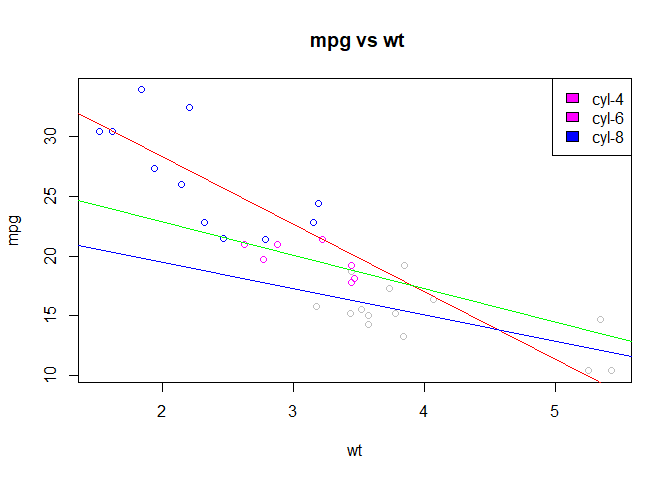
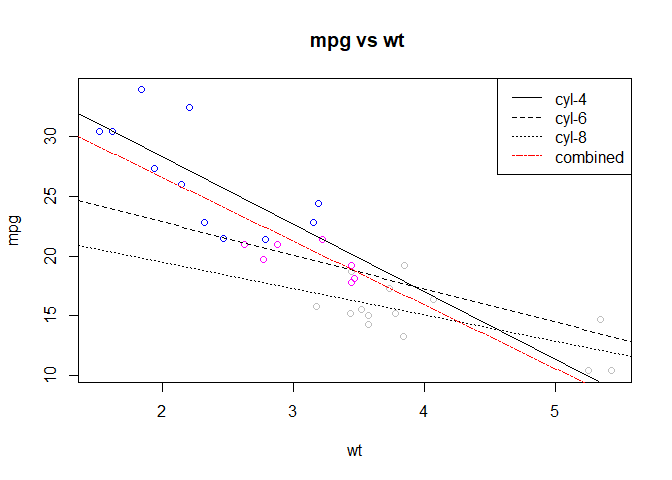
RIA Ch2 WIP

diff --git a/R/Getting Started/Basic_Viz.md b/R/Getting Started/Basic_Viz.md
@@ -243,17 +243,17 @@ par(par.default)
 ```
 
 ``` r
-# G. ADDING TEXT ON CHART, LEGENDS, CUSTOMIZING AXES SEPARATELY
+# F. ADDING TEXT ON CHART, LEGENDS, CUSTOMIZING AXES SEPARATELY
 # Only some of the high level functionslike plot() let you specify
 # the graphical parameters, in other cases separate function can be used
 
-#G.1 TITLE LETS setting OF TEXT RELATED AESTHETICS LIKE 
+#F.1 TITLE LETS setting OF TEXT RELATED AESTHETICS LIKE 
 # TEXT SIZE, FONT, COLOR, FAMILY
 #title(main = ,sub = ,xlab = ,ylab = , # Adding titles - main, sub, labels
 #      col.main =,col.sub, col.lab =,  # Adjust color
 #      cex.main =, cex.sub, cex.lab)  # Adjust size
 
-#G.2 AXIS LETS CUSTOMIZATION OF AXES
+#F.2 AXIS LETS CUSTOMIZATION OF AXES
 # USE TO DRAW GRAPHS WITH MORE THAN 2 AXES
 #PLOTS ONE AXIS AT A TIME
 # axis(side = ,    which side of the plot to draw axis (1-b,2-l,3-u,4-r)
@@ -268,12 +268,12 @@ par(par.default)
 # Note: If using a plot function fto plot first, need to suppress
 # the axis created using axes = FALSE or use xaxt, yaxt arguments
 
-# G.3 USING MINOR TICKS IN A PLOT from Hmisc library
+# F.3 USING MINOR TICKS IN A PLOT from Hmisc library
 # library(Hmisc)
 # minor.tick(nx = , ny = , no. of intevals to divide major ticks in on x and y axis
 #            tick.ratio = ) size of minor tick to major tick
 
-# G.4 LEGEND, KEY PARAMS
+# F.4 LEGEND, KEY PARAMS
 # legend(x= ,y = , # coordinates of legend or use xy.legend and "left", "right" etc
 #        legend = , # charcter vector of labels 
 #        fill = ,# causes boxes to be filled besides legend text
@@ -287,14 +287,31 @@ par(par.default)
 #str(mtcars)
 #data <- mtcars
 #data$color <- ifelse(data$cyl==4,"red",ifelse(data$cyl==6,"green","blue"))
+library(dplyr)
+```
+
+    ## 
+    ## Attaching package: 'dplyr'
+
+    ## The following objects are masked from 'package:stats':
+    ## 
+    ##     filter, lag
+
+    ## The following objects are masked from 'package:base':
+    ## 
+    ##     intersect, setdiff, setequal, union
+
+``` r
 attach(mtcars)
 par.default <- par(no.readonly = TRUE)
-colors <- rainbow(n = length(unique(cyl)))
+#colors <- rainbow(n = length(unique(cyl)))
 plot(x = wt, y = mpg, type = "p", main = " mpg vs wt" ,frame.plot = TRUE, col = cyl)
-legend(x = "topright",legend = c("cyl-4","cyl-6","cyl-8"),fill = cyl)
-abline(reg = lm(formula = mpg ~ wt,subset = (cyl==4)),col ="red")
-abline(reg = lm(formula = mpg ~ wt,subset = (cyl==6)), col ="green")
-abline(reg = lm(formula = mpg ~ wt,subset = (cyl==8)), col ="blue")
+abline(reg = lm(formula = mpg ~ wt,subset = (cyl==4)),lty = 1)
+abline(reg = lm(formula = mpg ~ wt,subset = (cyl==6)), lty = 2)
+abline(reg = lm(formula = mpg ~ wt,subset = (cyl==8)), lty = 3)
+abline(reg = lm(formula = mpg ~ wt), lty = 6, col = "red")
+legend(x = "topright",legend = c("cyl-4","cyl-6","cyl-8", "combined"),lty = c(1,2,3,6),
+       col = c(rep("black",3),"red"))
 ```
 
 ![](Basic_Viz_files/figure-markdown_github-ascii_identifiers/unnamed-chunk-7-1.png)
@@ -303,3 +320,150 @@ abline(reg = lm(formula = mpg ~ wt,subset = (cyl==8)), col ="blue")
 detach(mtcars)
 par(par.default)
 ```
+
+``` r
+#F.5 ADDING TEXT ON CHART AT CUSTOM PLACES (FOR LABELING) AND ON MARGINS
+#str(mtcars)
+# TEXT(), MTEXT() FUNCTIONS
+attach(mtcars)
+plot(x = wt, y = mpg)
+text(x = wt, y = mpg, # can be vectors specifying x,y coordinates to place text
+     labels = rownames(mtcars), # labels of text to place
+     cex = 0.6,col = "red", # size, color, font etc aesthetics of text
+     pos =4 # relative position w.r.t x,y coordinates where to place text   
+     )
+mtext(text = "wt in '000 pounds" , # text to be put in margins
+      side = 1 ,line = 2,adj = 1) # which side (1/2/3/4)
+```
+
+![](Basic_Viz_files/figure-markdown_github-ascii_identifiers/unnamed-chunk-8-1.png)
+
+``` r
+                                  # how many lines of difference to be put from margin
+                                  # adjustment to left of right, or top/bottom of text
+detach(mtcars)
+# math notation can also be added, details are spared for now.
+# More on this with demo(plotmath) and help(plotmath)
+```
+
+``` r
+# G. GRAPHICAL PARAMETERS TO COMBINE GRAPHS
+#G.1 WITH PAR(), WE CAN SET MFROW() AND MFCOL() TO COMBINE PLOTS
+
+par.default  <- par(no.readonly = TRUE)
+par(mfrow = c(2,2))
+attach(mtcars)
+
+boxplot(x = wt, main = "Distribution of Weight using boxplot", 
+        cex.main = 0.9)
+
+hist(x = wt,density = TRUE, main = "Distribution of Weight using histogram",
+     cex.main = 0.9)
+
+plot(x = wt, y = mpg, main = "Scatter plot to visualize linear dependence", 
+     cex.main = 0.9)
+
+plot(x = wt, y = mpg, type = "p", main = " mpg vs wt" ,frame.plot = TRUE, 
+     col = cyl, cex.main = 0.9)
+abline(reg = lm(formula = mpg ~ wt,subset = (cyl==4)),lty = 1)
+abline(reg = lm(formula = mpg ~ wt,subset = (cyl==6)), lty = 2)
+abline(reg = lm(formula = mpg ~ wt,subset = (cyl==8)), lty = 3)
+abline(reg = lm(formula = mpg ~ wt), lty = 6, col = "red")
+legend(x = "topright",legend = c("cyl-4","cyl-6","cyl-8", "combined"),lty = c(1,2,3,6),
+       col = c(rep("black",3),"red"),cex = 0.6)
+```
+
+![](Basic_Viz_files/figure-markdown_github-ascii_identifiers/unnamed-chunk-9-1.png)
+
+``` r
+detach(mtcars)
+par(par.default)
+```
+
+``` r
+#G.2 LAYOUT() FUNCTION GIVES MORE FINE CONTROL IN PLOT SIZING
+# LAYOUT FUNCTION TAKES FOLLOWING KEY ARGUMENTS
+#1. MATRIX : MXN DIMENSIONS TO KNOW HOW TO DIVIDE THE DEVICE SPACE
+#2. MATRIX : MATRIX ELEMENTS THAT SPECIFY WHICH CELL IS ASSIGNED
+# TO WHICH FIGURE
+par.default  <- par(no.readonly = TRUE)
+layout(mat = matrix(c(1,1,0,2), # ASSIGN CELLS TO FIGURES
+                    nrow =2 ,ncol =2 , byrow = TRUE)) # DEFINE CELLS
+layout.show(n = 2)
+```
+
+![](Basic_Viz_files/figure-markdown_github-ascii_identifiers/unnamed-chunk-10-1.png)
+
+``` r
+par(par.default)
+```
+
+``` r
+par.default  <- par(no.readonly = TRUE)
+layout(mat = matrix(c(1,2,3,3), # ASSIGN CELLS TO FIGURES
+                    nrow =2 ,ncol =2 , byrow = TRUE),# DEFINE CELLS
+                    heights = c(45,55)) # heights and widths
+                      # used to specify relative/absolute dimesnions
+                      # of rows and cols resp., here 45% to 55%
+attach(mtcars)
+
+boxplot(x = wt, main = "Distribution of Weight using boxplot", 
+        cex.main = 0.9)
+
+plot(x = wt, y = mpg, main = "Scatter plot to visualize linear dependence", 
+     cex.main = 0.9)
+
+plot(x = wt, y = mpg, type = "p", main = " mpg vs wt" ,frame.plot = TRUE, 
+     col = cyl, cex.main = 0.9)
+abline(reg = lm(formula = mpg ~ wt,subset = (cyl==4)),lty = 1)
+abline(reg = lm(formula = mpg ~ wt,subset = (cyl==6)), lty = 2)
+abline(reg = lm(formula = mpg ~ wt,subset = (cyl==8)), lty = 3)
+abline(reg = lm(formula = mpg ~ wt), lty = 6, col = "red")
+legend(x = "topright",legend = c("cyl-4","cyl-6","cyl-8", "combined"),lty = c(1,2,3,6),
+       col = c(rep("black",3),"red"),cex = 0.6)
+```
+
+![](Basic_Viz_files/figure-markdown_github-ascii_identifiers/unnamed-chunk-11-1.png)
+
+``` r
+detach(mtcars)
+
+par(par.default)
+```
+
+``` r
+# G.2 fig parameter within par() function
+# lets you combine plots with finest control
+par.default  <- par(no.readonly = TRUE)
+attach(mtcars)
+par(fig=c(0,0.8,0,0.8))
+plot(x = wt, y = mpg, type = "p", frame.plot = TRUE, 
+     col = cyl, cex.main = 0.9)
+abline(reg = lm(formula = mpg ~ wt,subset = (cyl==4)),lty = 1)
+abline(reg = lm(formula = mpg ~ wt,subset = (cyl==6)), lty = 2)
+abline(reg = lm(formula = mpg ~ wt,subset = (cyl==8)), lty = 3)
+abline(reg = lm(formula = mpg ~ wt), lty = 6, col = "red")
+legend(x = "topright",legend = c("cyl-4","cyl-6","cyl-8", "combined"),lty = c(1,2,3,6),
+       col = c(rep("black",3),"red"),cex = 0.6)
+
+par(fig=c(0,0.8,0.5,1), new = TRUE)
+
+boxplot(x = wt, horizontal = TRUE,axes =FALSE, plot.frame = FALSE)
+
+par(fig=c(0.6,1,0,0.8), new = TRUE)
+
+boxplot(x = mpg, horizontal = FALSE,axes =FALSE, plot.frame = FALSE)
+mtext(text = " Three plots combined using fig",side = 3 ,line = 4,adj = 1,
+      ,at = c(0.2,0.2))
+```
+
+![](Basic_Viz_files/figure-markdown_github-ascii_identifiers/unnamed-chunk-12-1.png)
+
+``` r
+detach(mtcars)
+
+par(par.default)
+?par()
+```
+
+    ## starting httpd help server ... done
